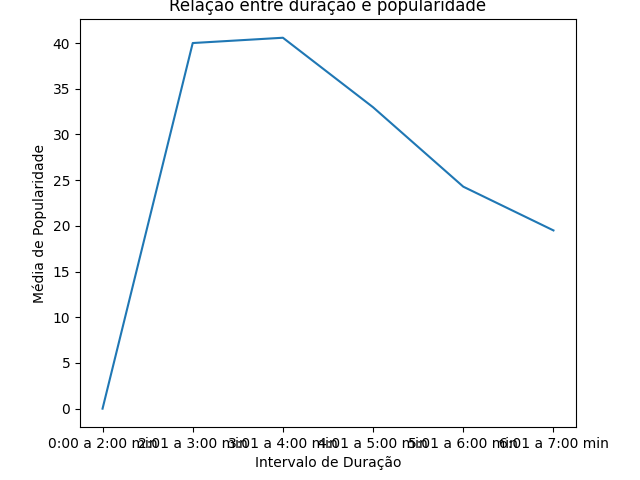
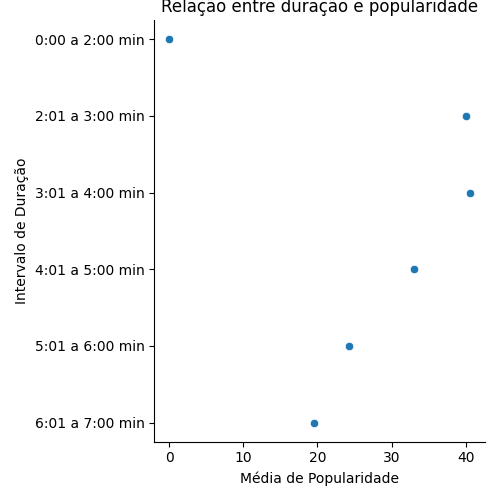
Corrigir gráfico relação duração popularidade

diff --git a/testegraf.py b/testegraf.py
@@ -25,14 +25,22 @@ try:
 
     # Máscara que vai mudar o formato da imagem
     titulomusicaetmask = np.array(Image.open("imagens/Grupo 2/skillet nome.jpg"))
-
     # Gerando a wordcloud
-    wctitulo = WordCloud(background_color="white", mask=titulomusicaetmask, contour_width=3, contour_color="black")
-    wctitulo.generate(df_negativas)
-
+    wctitulo = WordCloud(background_color="gray", mask=titulomusicaetmask, contour_width=3, contour_color="black")
+    wctitulo.generate(string_negativa)
     # Mudando as cores.
     cores = ImageColorGenerator(titulomusicaetmask)
     wctitulo.recolor(color_func=cores)
-    wctitulo.to_file("imagens/Grupo 3/Wc_Titulos_das_Musicas.jpg")
+    wctitulo.to_file("imagens/Grupo 3/Palavras negativas.jpg")
+
+    # Máscara que vai mudar o formato da imagem
+    titulomusicaetmask = np.array(Image.open("imagens/Grupo 2/skillet nome.jpg"))
+    # Gerando a wordcloud
+    wctitulo = WordCloud(background_color="white", mask=titulomusicaetmask, contour_width=3, contour_color="black")
+    wctitulo.generate(string_positiva)
+    # Mudando as cores.
+    cores = ImageColorGenerator(titulomusicaetmask)
+    wctitulo.recolor(color_func=cores)
+    wctitulo.to_file("imagens/Grupo 3/Palavras positivas.jpg")
 except FileNotFoundError:
     print("A máscara para a wordcloud não foi encontrada.")

diff --git a/graficos.py b/graficos.py
@@ -14,7 +14,7 @@ dataframe = pd.read_excel('BD - Skillet.xlsx')
 
 def grafico_musica_popularidade(dataframe):
     popularidade = pg.musica_popularidade(dataframe)
-    grafico = sns.lineplot(data=popularidade, y="Média de Popularidade", x = "Intervalo de Duração")
+    grafico = sns.relplot(data=popularidade, y="Média de Popularidade", x = "Intervalo de Duração")
     plt.title("Relação entre duração e popularidade")
     plt.subplots_adjust(top=0.96)
     return plt.savefig('imagens\Grupo 1\Relação entre duração e popularidade.png')
